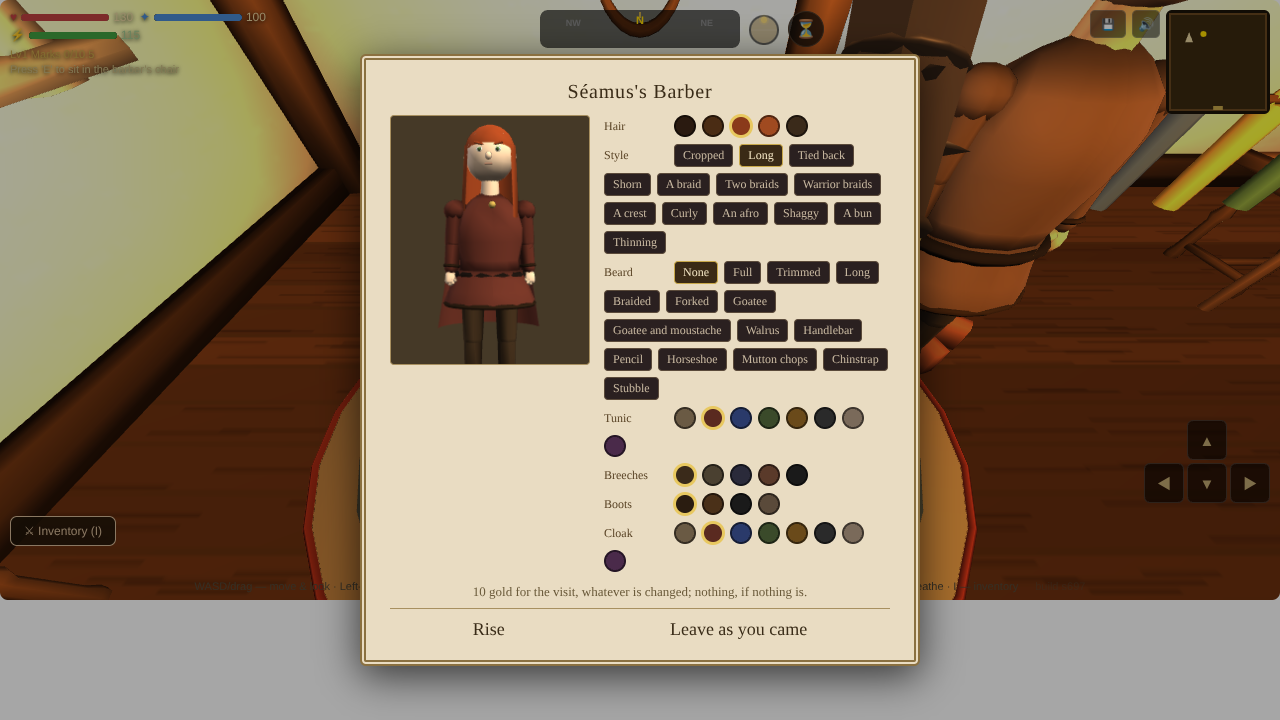
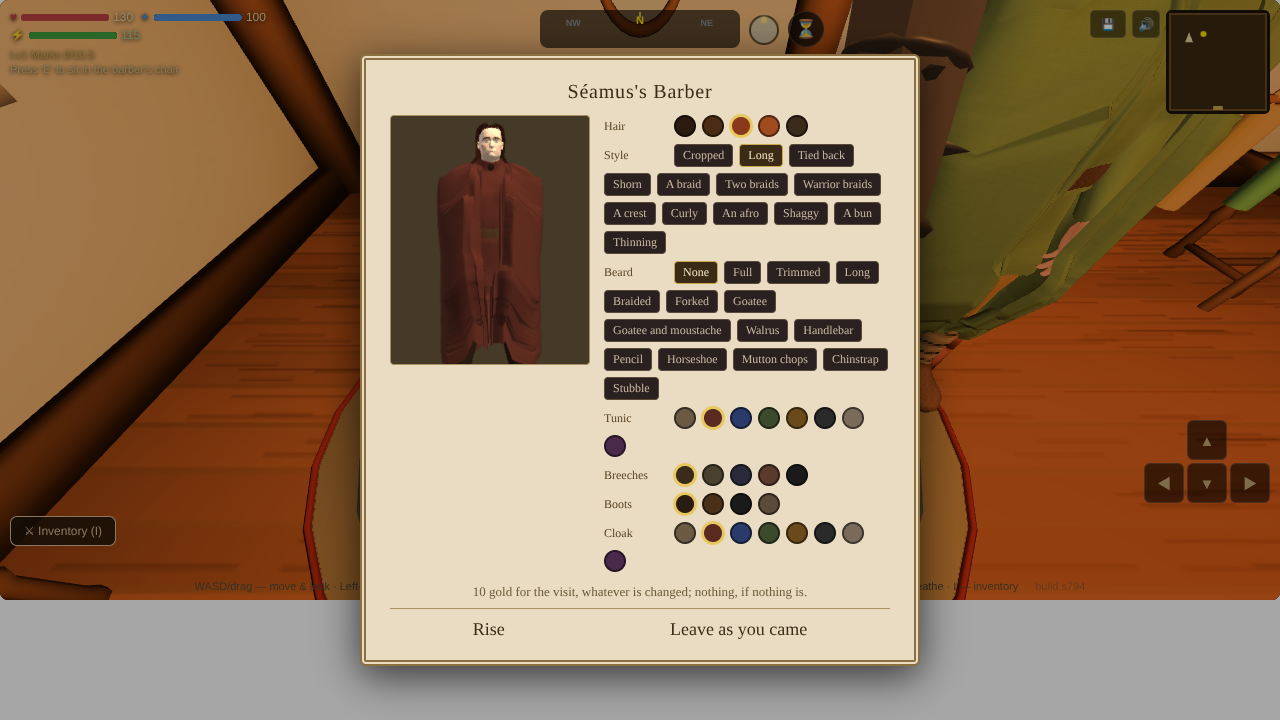
Session 1257: the room suites' results in the devlog; barberchair's picture
Claude-Session: https://claude.ai/code/session_01PYZSCwxQvzPwXkL4kSNvKk

diff --git a/docs/devlog/1257.md b/docs/devlog/1257.md
@@ -33,7 +33,8 @@ it. Its post check now finds the grade in the ACES function and not in the neutr
   white: 1.6, 12.9 and 0.9% → 0.
 - Dunmore's first home at 21h by its hearth, side by side: linear, the curve with the grade, and the curve alone. Linear's walls
   clip yellow-white; with the grade they read saturated orange; the curve alone gives warm plaster with its shading.
-- Suites: see the PR. Picture: `docs/prototypes/roompost-forge.jpg` (the smith by his forge, before and after).
+- Suites, on the final code: `f3land` 19/19, `coldhearth` 9/9, `windows` 9/9, `chapel` 7/7, `kittaproom` 18/18, `kitinn` 16/16
+  (2 files), `barberchair` 14/14. Their pictures of rooms are regenerated on the neutral curve. Picture: `docs/prototypes/roompost-forge.jpg` (the smith by his forge, before and after).
 
 ### Needs eyes
 - The inn at 22h by a candle (the critic's `-inn-night.png`), and whether rooms now read right next to the street's graded frame.
